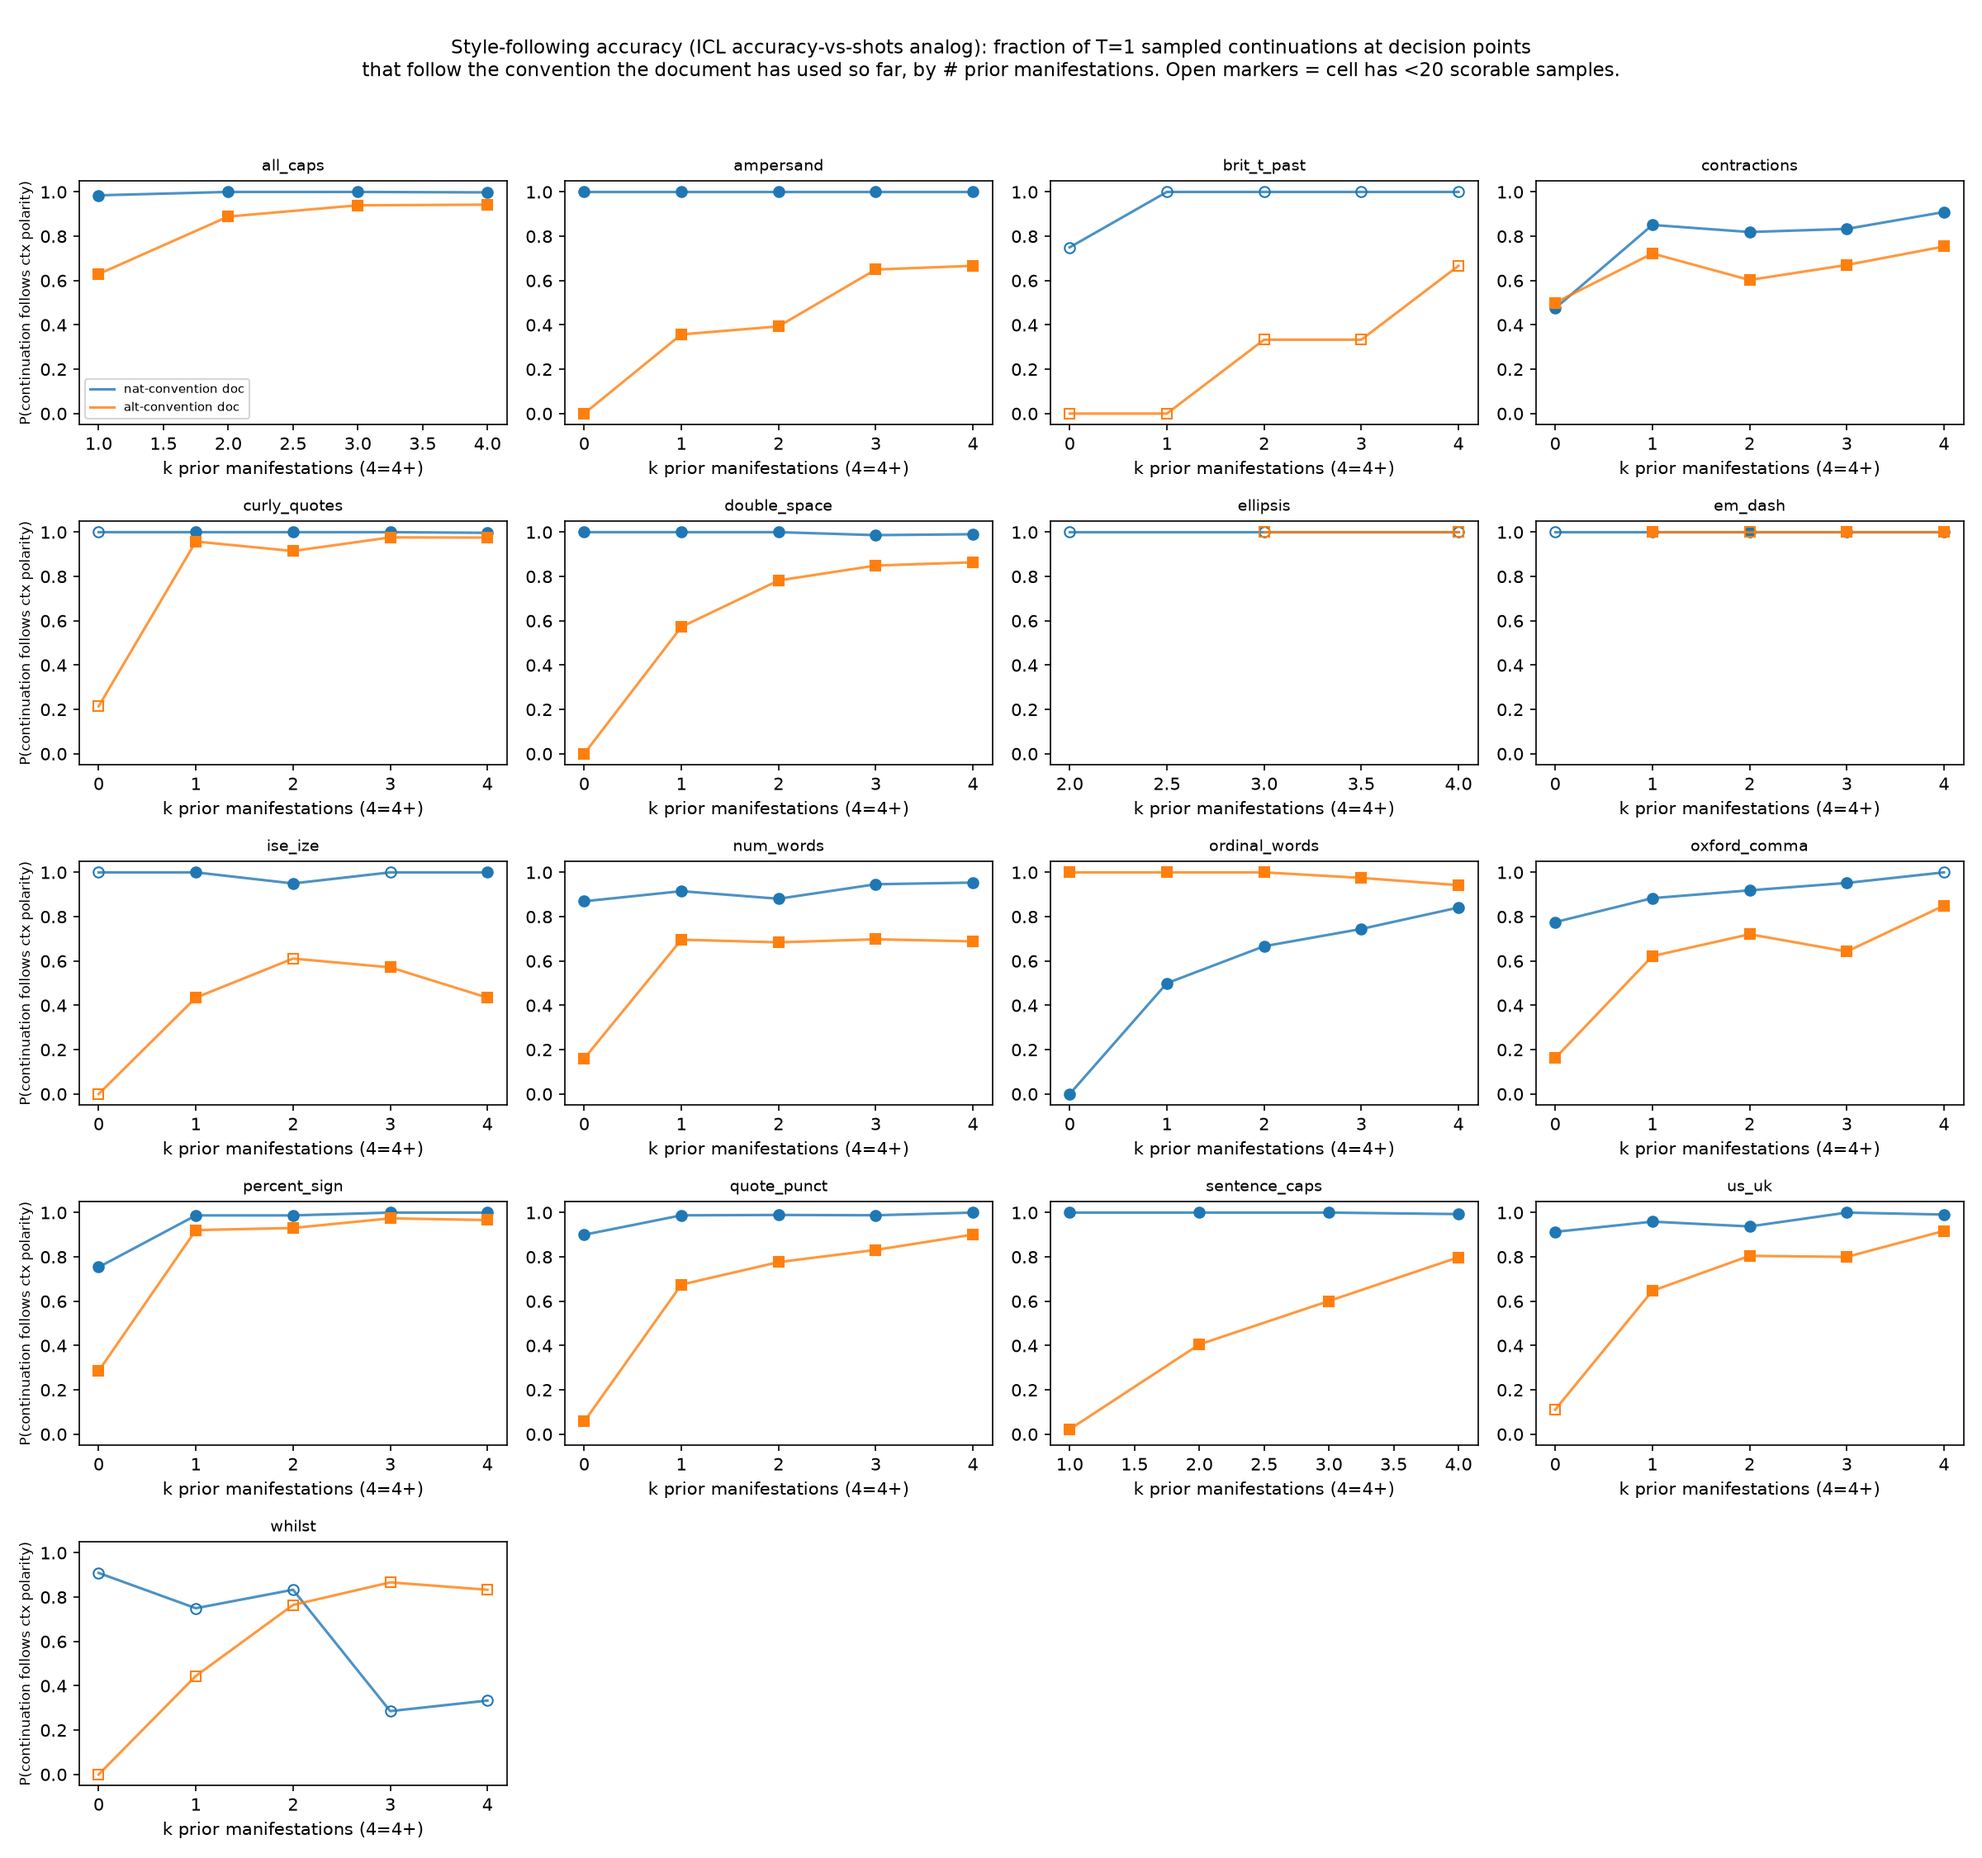
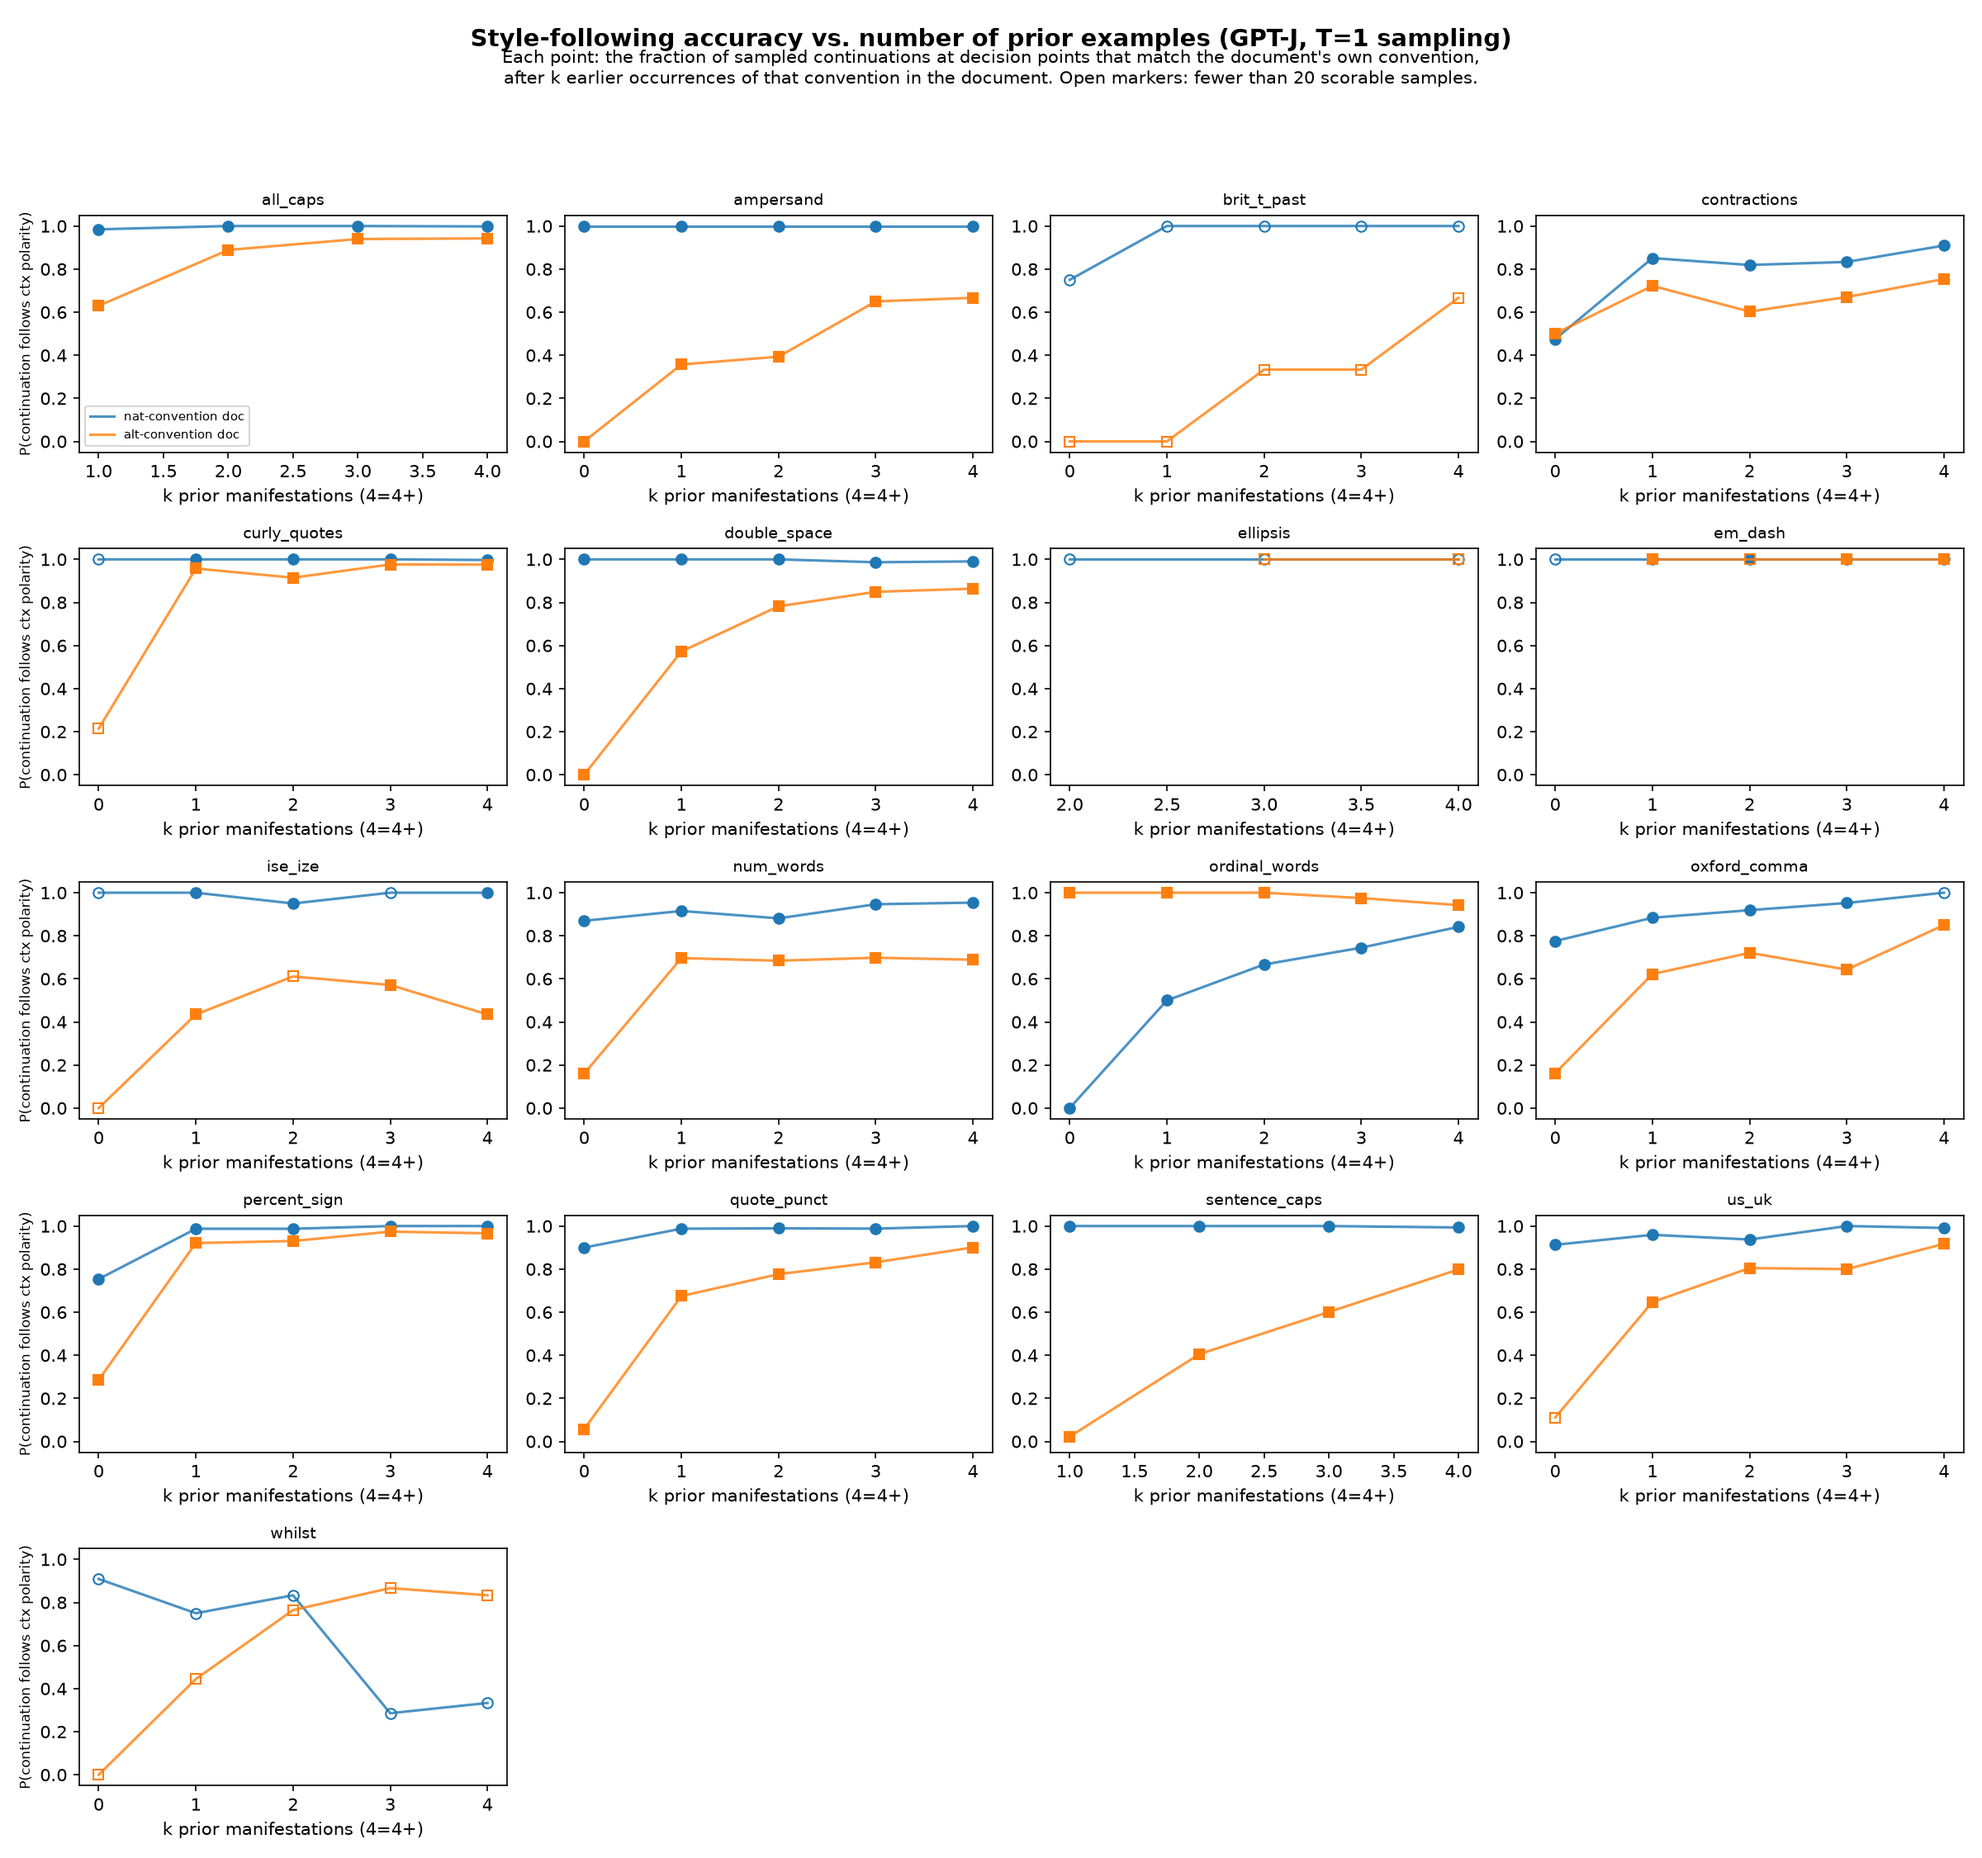
accuracy_by_k: precise bold headline + plain-language subtitle

diff --git a/src/sandbox/ext_styleprops/plot_prescreen.py b/src/sandbox/ext_styleprops/plot_prescreen.py
@@ -166,18 +166,22 @@ def main():
         ax1[k // ncol][k % ncol].axis("off")
         ax2[k // ncol][k % ncol].axis("off")
         ax3[k // ncol][k % ncol].axis("off")
-    fig3.suptitle("Style-following accuracy (ICL accuracy-vs-shots analog): fraction of "
-                  "T=1 sampled continuations at decision points\nthat follow the "
-                  "convention the document has used so far, by # prior manifestations. "
-                  "Open markers = cell has <20 scorable samples.", fontsize=11)
+    fig3.suptitle("Style-following accuracy vs. number of prior examples "
+                  "(GPT-J, T=1 sampling)", fontsize=14, fontweight="bold", y=0.985)
+    fig3.text(0.5, 0.955,
+              "Each point: the fraction of sampled continuations at decision points that "
+              "match the document's own convention,\nafter k earlier occurrences of that "
+              "convention in the document. Open markers: fewer than 20 scorable samples.",
+              ha="center", fontsize=10)
     fig1.suptitle("Sampled adherence at decision points: fraction of T=1 continuations "
                   "classified as the nat pole, under nat-polarity vs alt-polarity context "
                   "(dashed = their difference, the context separation)", fontsize=11)
     fig2.suptitle("Context separation s = P(nat | nat ctx) − P(nat | alt ctx) at decision "
                   "points, by token distance since the property last manifested", fontsize=11)
-    for f_, name_ in ((fig1, "adherence_by_k.png"), (fig2, "separation_by_dist.png"),
-                      (fig3, "accuracy_by_k.png")):
-        f_.tight_layout(rect=(0, 0, 1, 0.96))
+    for f_, name_, top in ((fig1, "adherence_by_k.png", 0.96),
+                           (fig2, "separation_by_dist.png", 0.96),
+                           (fig3, "accuracy_by_k.png", 0.93)):
+        f_.tight_layout(rect=(0, 0, 1, top))
         f_.savefig(OUT_DIR / name_, dpi=150)
     np.savez(OUT_DIR / "prescreen_records.npz", **npz)
 
